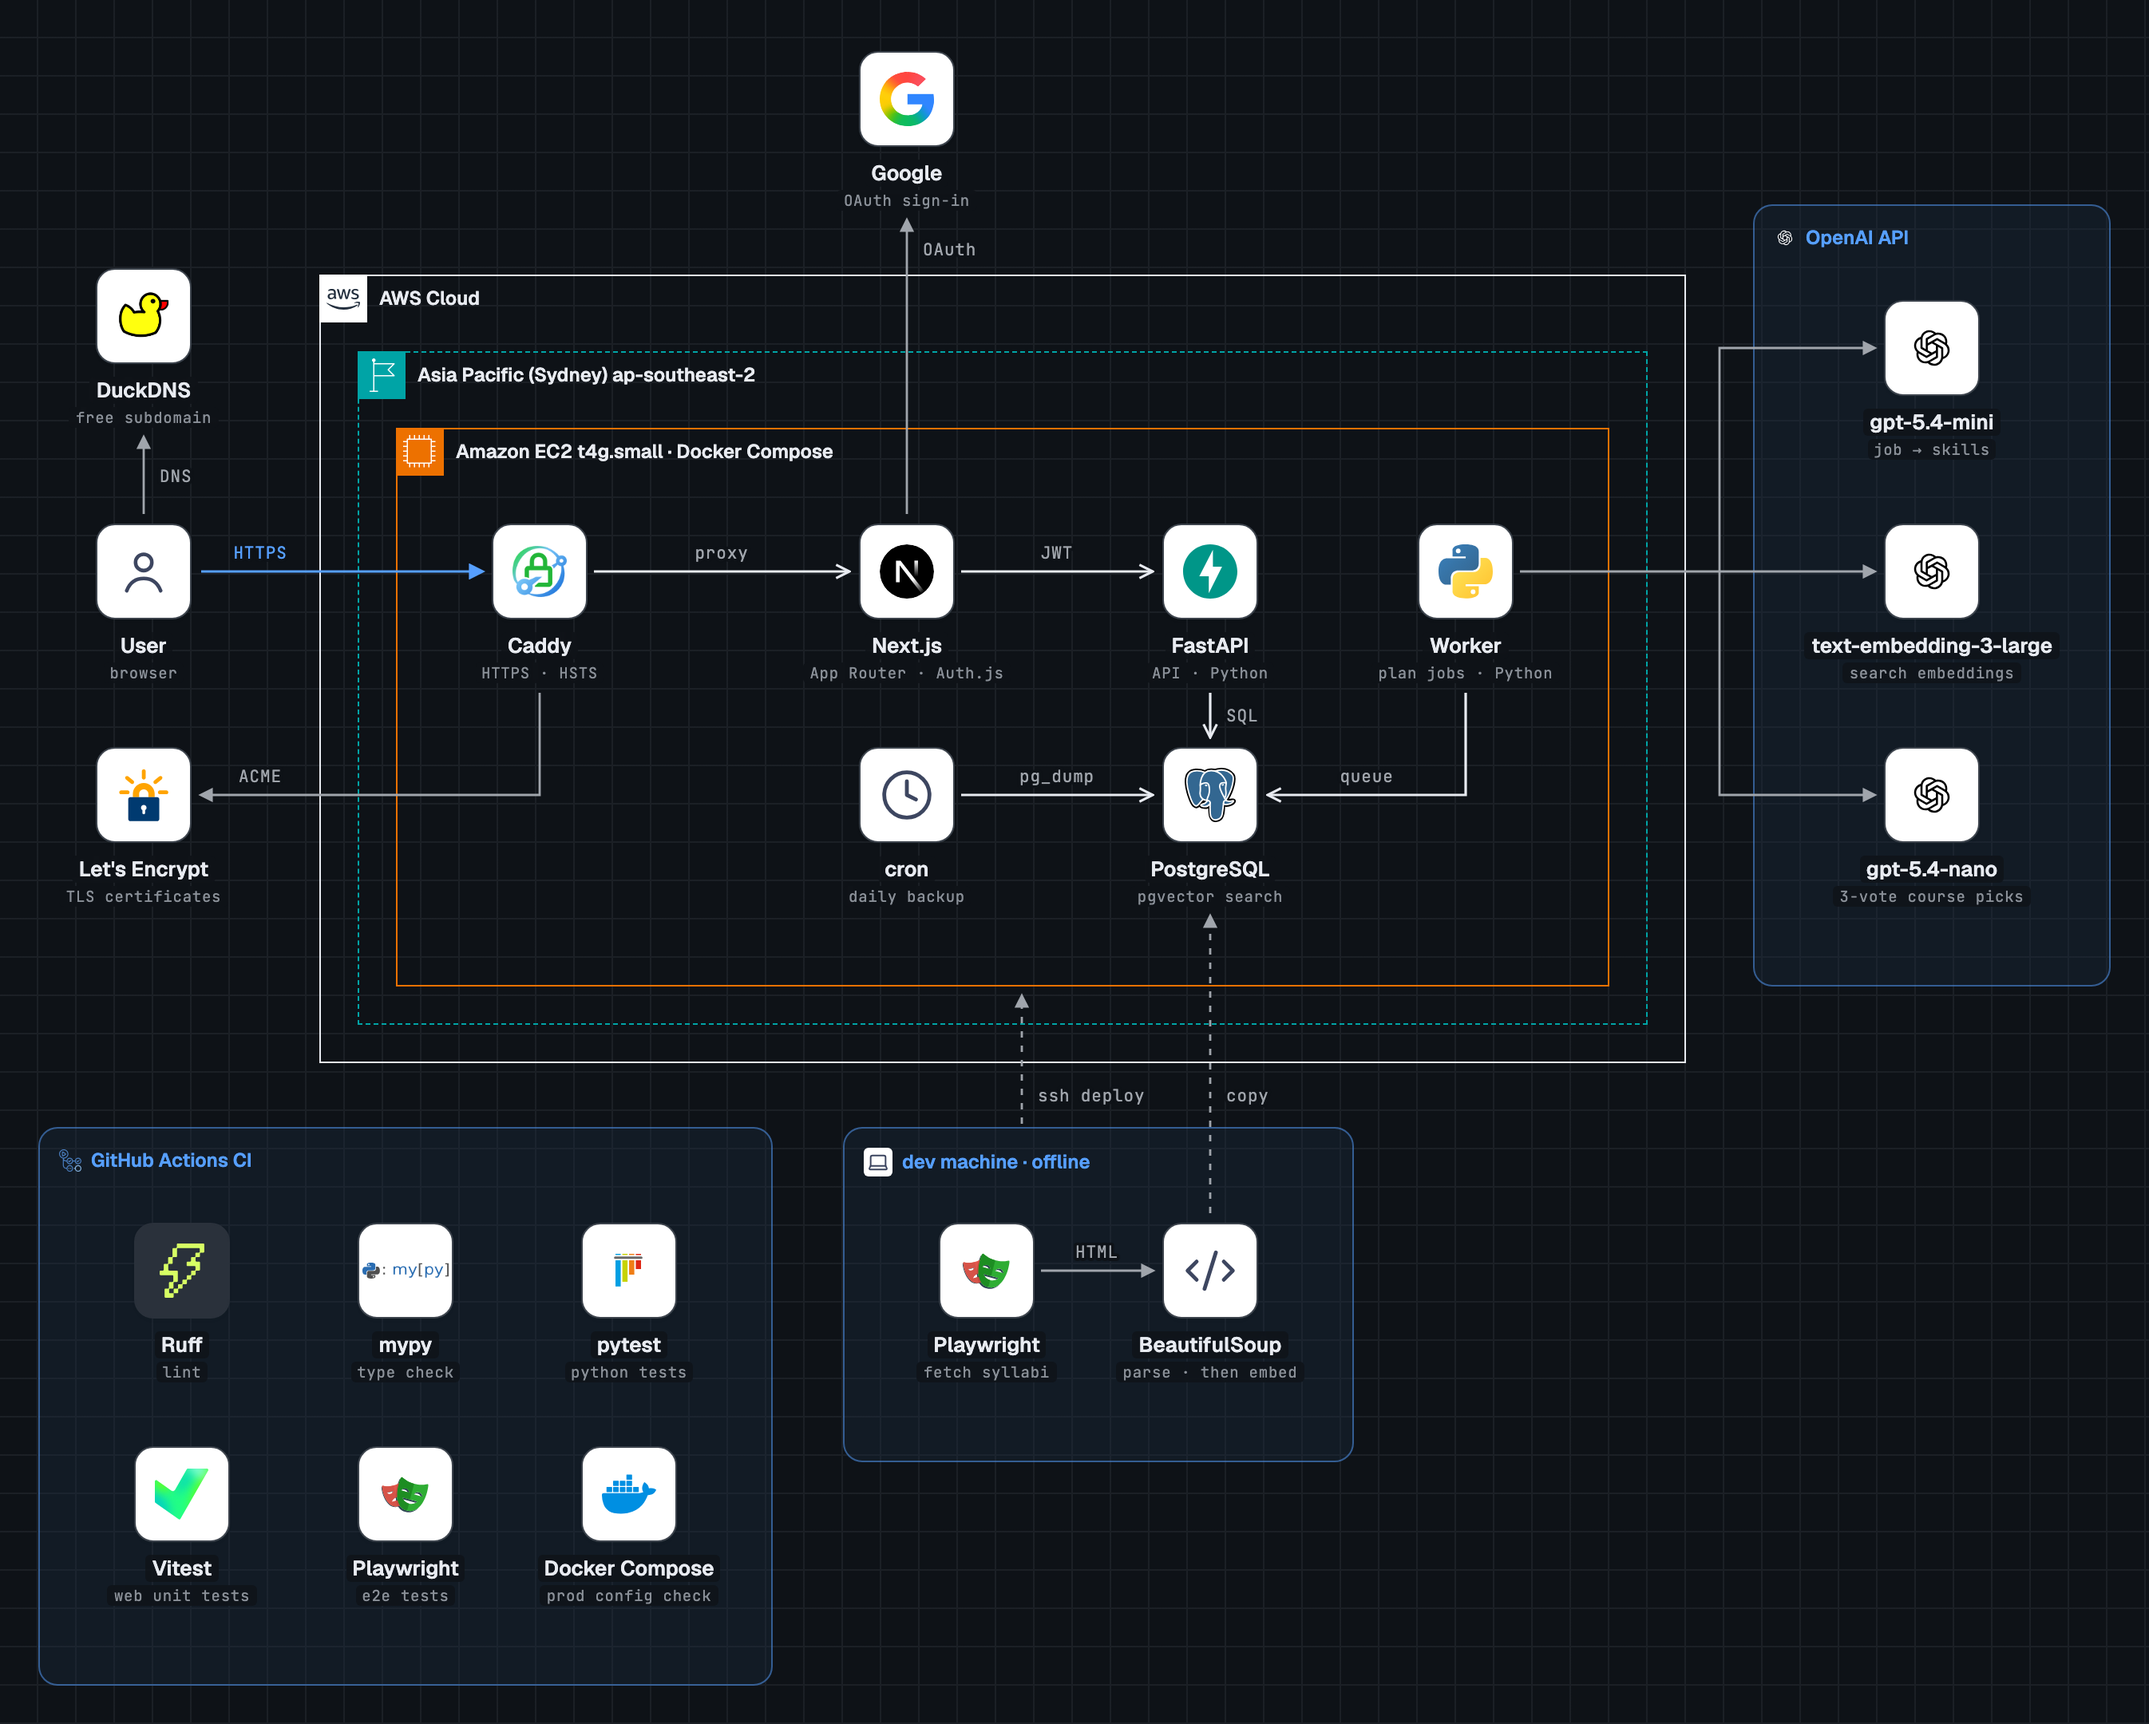
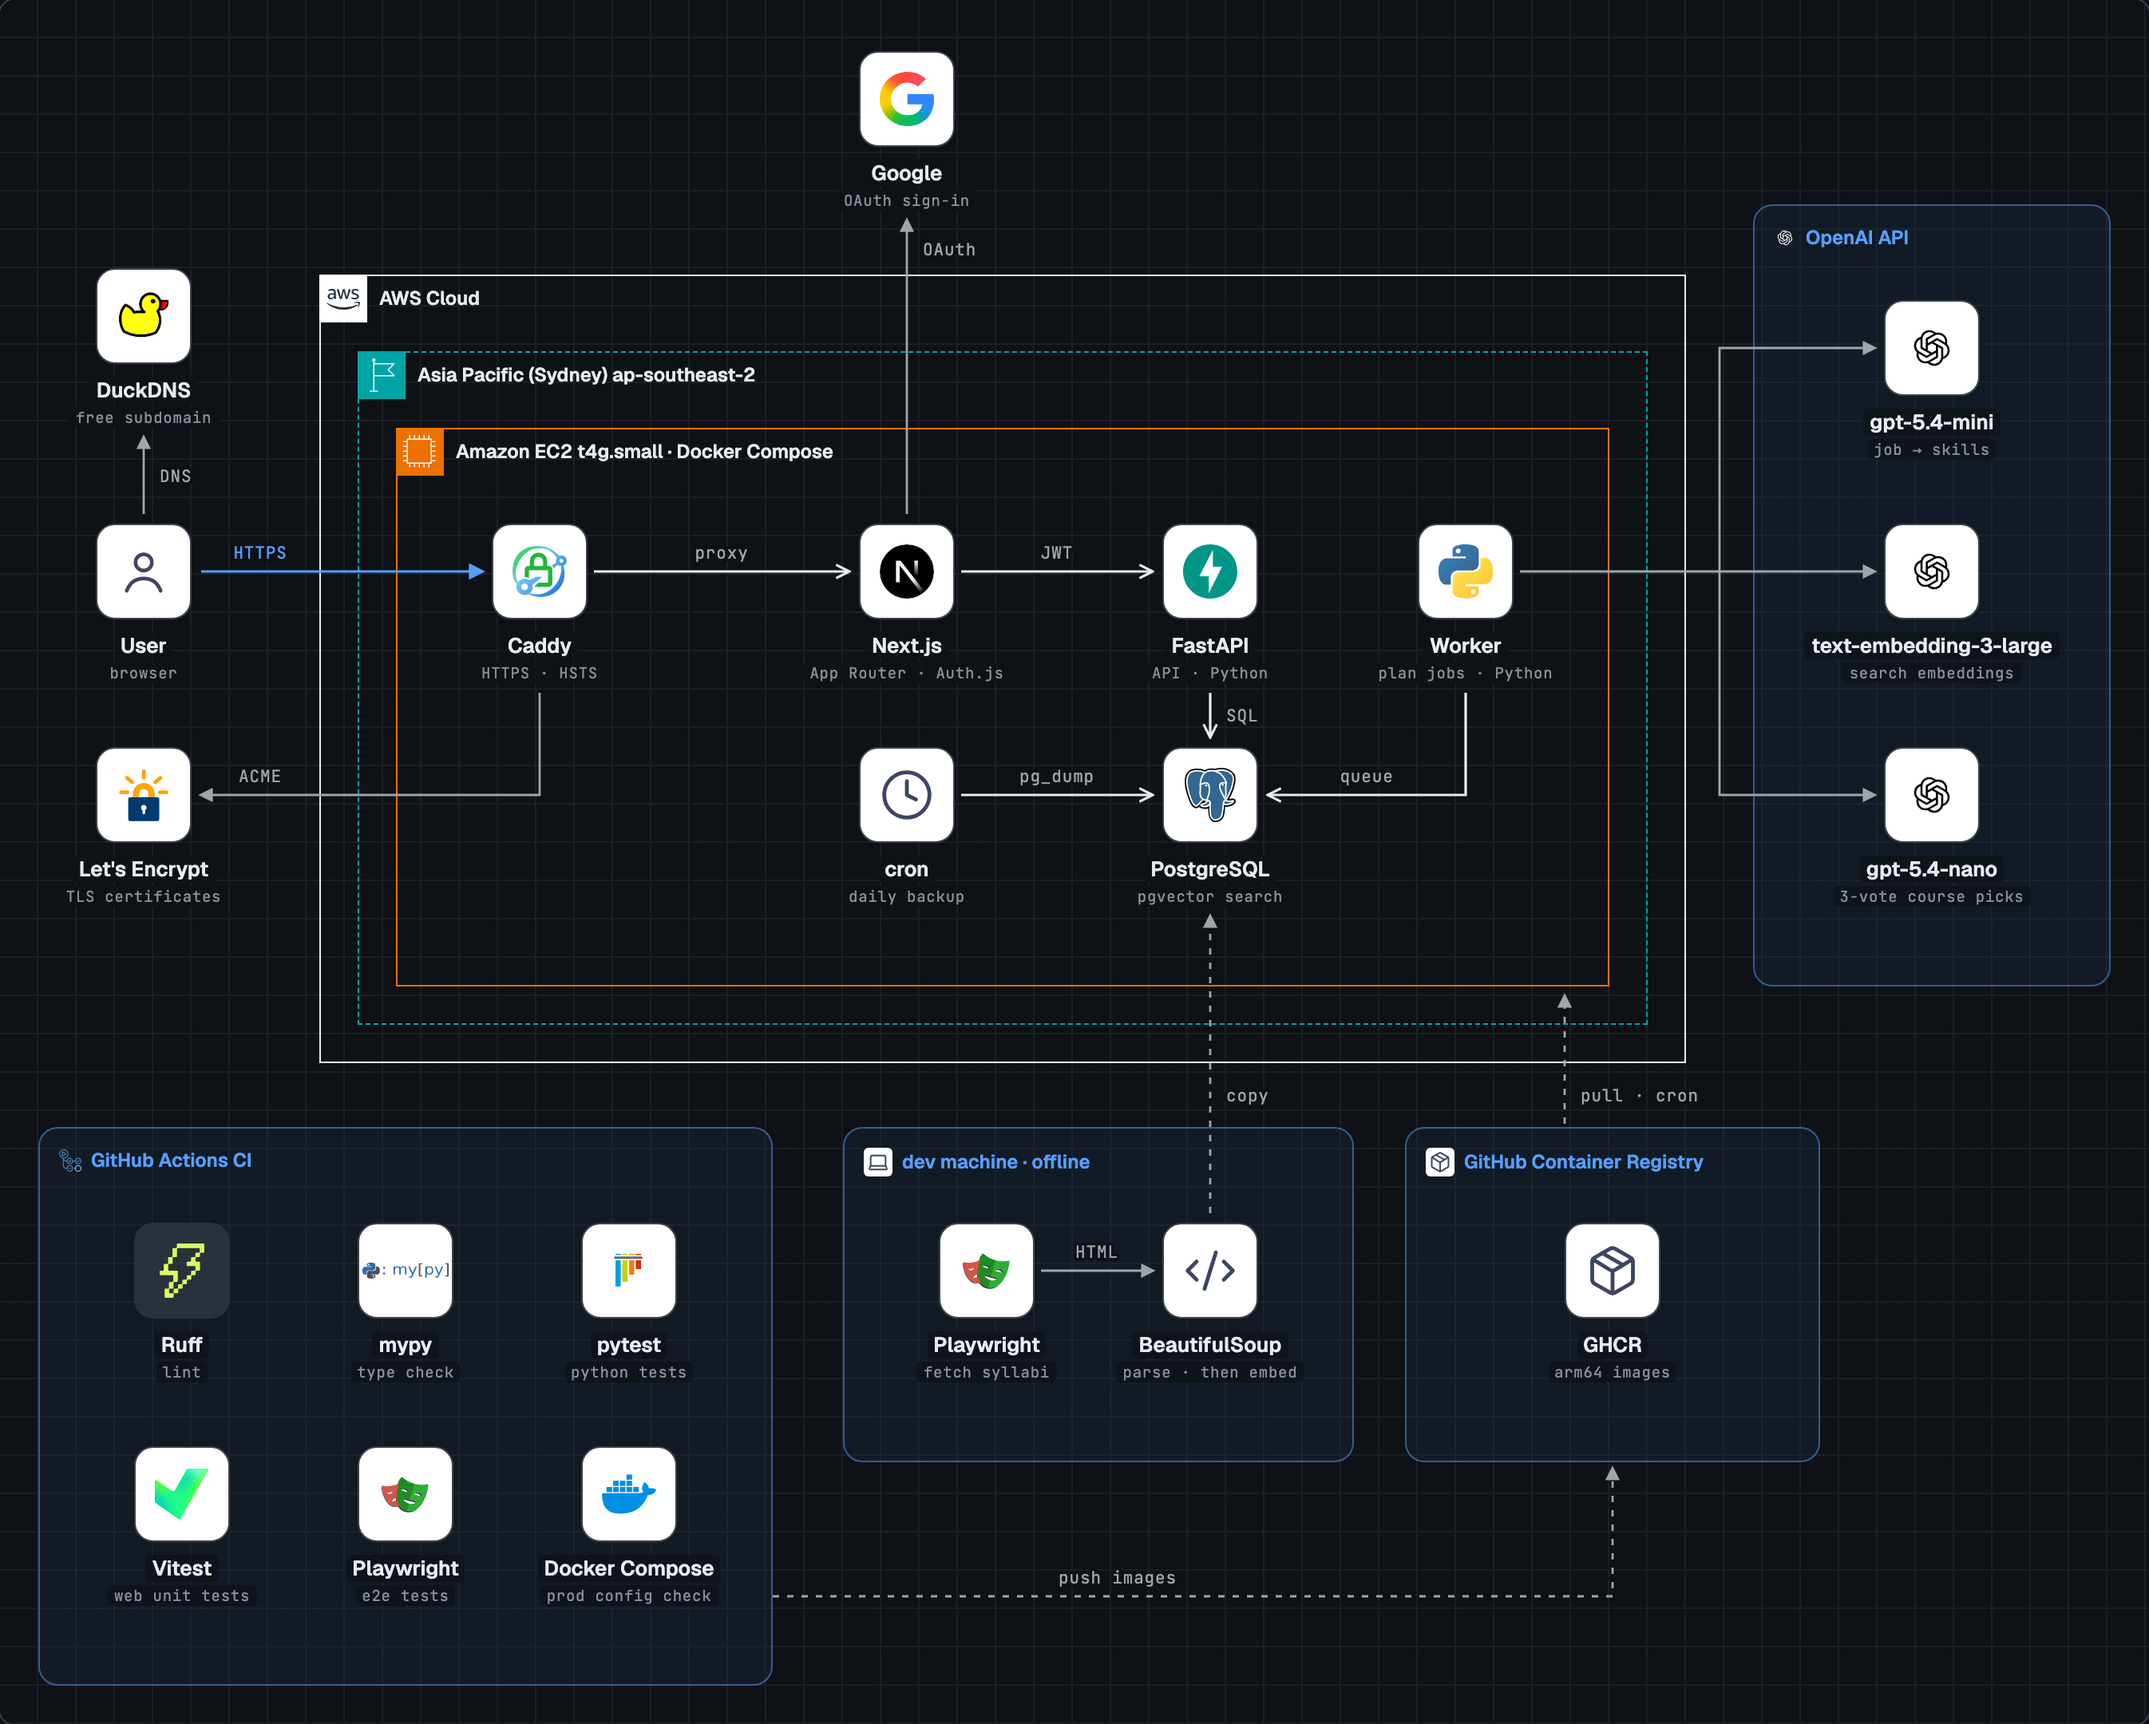
README と構成図に、GHCR を通して取りに行くデプロイを描く
構成図の手元の開発機からの ssh deploy の線を外し、GitHub Container Registry の枠を足して、
CI からイメージを置く線(push images)と、EC2 の cron が取りに行く線(pull · cron)を引いた。
明るい見た目と暗い見た目を 2 倍の解像度で撮り直した。README の本番の節、技術の表、見どころ、
英語の要約にも書いた。

diff --git a/docs/images/architecture.html b/docs/images/architecture.html
@@ -176,6 +176,10 @@ path.aws { stroke: var(--color-ink); stroke-width:1.6; fill:none; }
[1 lines of base64/hex data omitted]
     </div>
 
+    <div class="group gb" data-id="registry" style="left:880px; top:706px; width:260px; height:210px;">
[1 lines of base64/hex data omitted]
+    </div>
+
     <!-- EDGES ============================================================= -->
     <svg class="edges" viewBox="0 0 1346 1080" aria-hidden="true">
       <defs>
@@ -215,8 +219,10 @@ path.aws { stroke: var(--color-ink); stroke-width:1.6; fill:none; }
       <text class="el" x="687" y="788" text-anchor="middle">HTML</text>
       <path class="n dash" d="M758 760 V574" marker-end="url(#ar)"/>
       <text class="el" x="768" y="690">copy</text>
-      <path class="n dash" d="M640 704 V624" marker-end="url(#ar)"/>
-      <text class="el" x="650" y="690">ssh deploy</text>
+      <path class="n dash" d="M484 1000 H1010 V920" marker-end="url(#ar)"/>
+      <text class="el" x="700" y="992" text-anchor="middle">push images</text>
+      <path class="n dash" d="M980 704 V624" marker-end="url(#ar)"/>
+      <text class="el" x="990" y="690">pull · cron</text>
     </svg>
 
     <!-- NODES ============================================================= -->
@@ -307,6 +313,11 @@ path.aws { stroke: var(--color-ink); stroke-width:1.6; fill:none; }
     <div class="node" data-group="dev" style="left:692px;top:766px">
[1 lines of base64/hex data omitted]
       <div class="name"><span>BeautifulSoup</span></div><div class="role"><span>parse · then embed</span></div>
+    </div>
+
+    <div class="node" data-group="registry" style="left:944px;top:766px">
[1 lines of base64/hex data omitted]
+      <div class="name"><span>GHCR</span></div><div class="role"><span>arm64 images</span></div>
     </div>
 
   </div>
